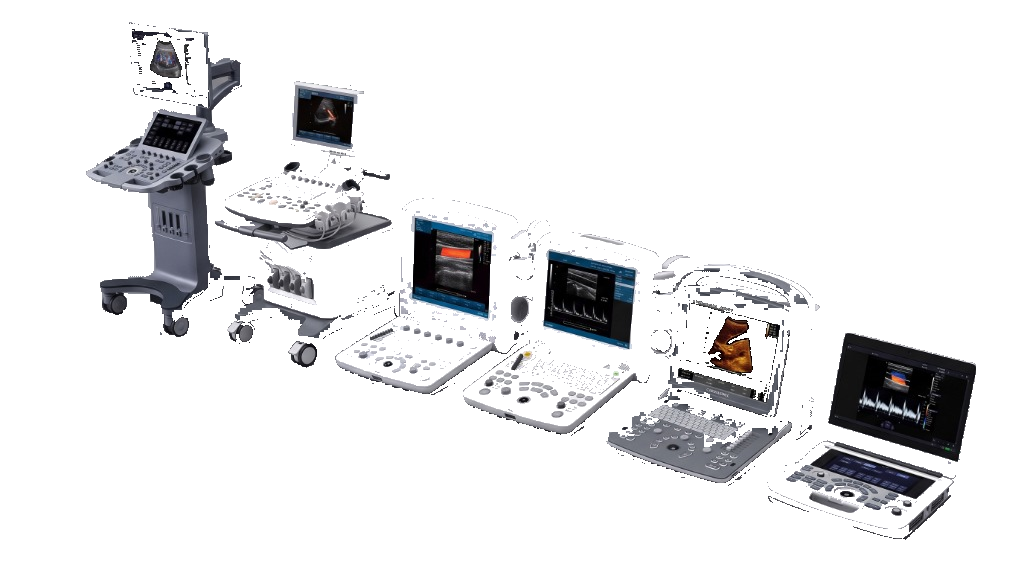
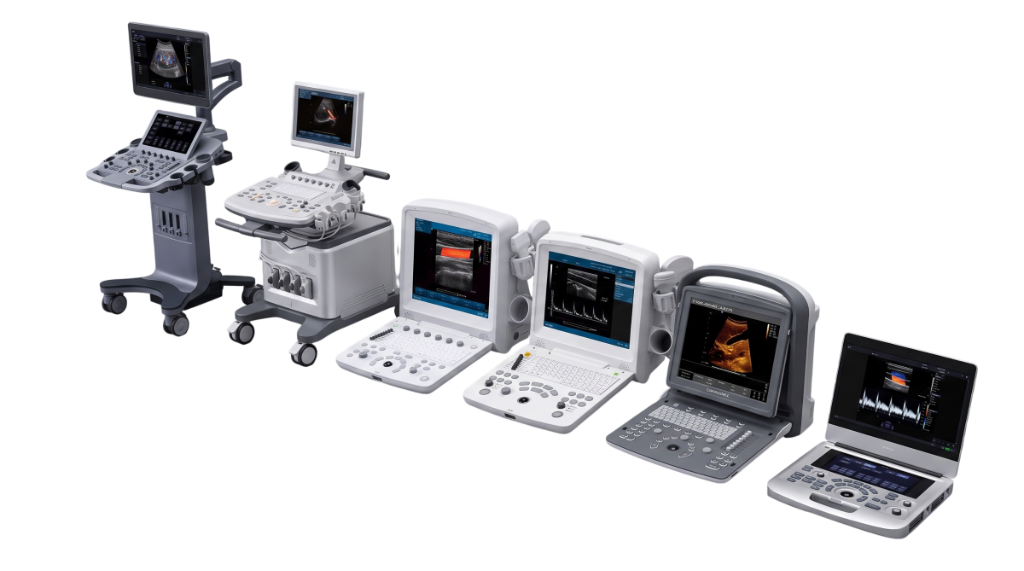
Update hero image and remove floating animation, red drop-shadow, and expanding ripple rings

diff --git a/style.css b/style.css
@@ -108,10 +108,10 @@ body { font-family: 'Inter', sans-serif; background: var(--bg); color: var(--tex
 
 .hero-visual { flex: 1.4; display: flex; justify-content: center; align-items: center; position: relative; min-height: 500px; }
 .hero-img-wrap { position: relative; display: flex; justify-content: center; align-items: center; }
-.hero-img { width: 680px; max-width: 100%; border-radius: 24px; position: relative; z-index: 2; filter: drop-shadow(0 20px 60px rgba(204,0,0,0.2)); animation: float 4s ease-in-out infinite; }
+.hero-img { width: 680px; max-width: 100%; border-radius: 24px; position: relative; z-index: 2; }
 @keyframes float { 0%,100%{transform:translateY(0)} 50%{transform:translateY(-16px)} }
 
-.hero-img-ring { position: absolute; border-radius: 50%; border: 1.5px solid rgba(204,0,0,0.12); animation: ripple 4s ease-out infinite; }
+.hero-img-ring { display: none; position: absolute; border-radius: 50%; border: 1.5px solid rgba(204,0,0,0.12); animation: ripple 4s ease-out infinite; }
 .ring-1 { width: 420px; height: 420px; animation-delay: 0s; }
 .ring-2 { width: 520px; height: 520px; animation-delay: 0.8s; }
 .ring-3 { width: 620px; height: 620px; animation-delay: 1.6s; }
